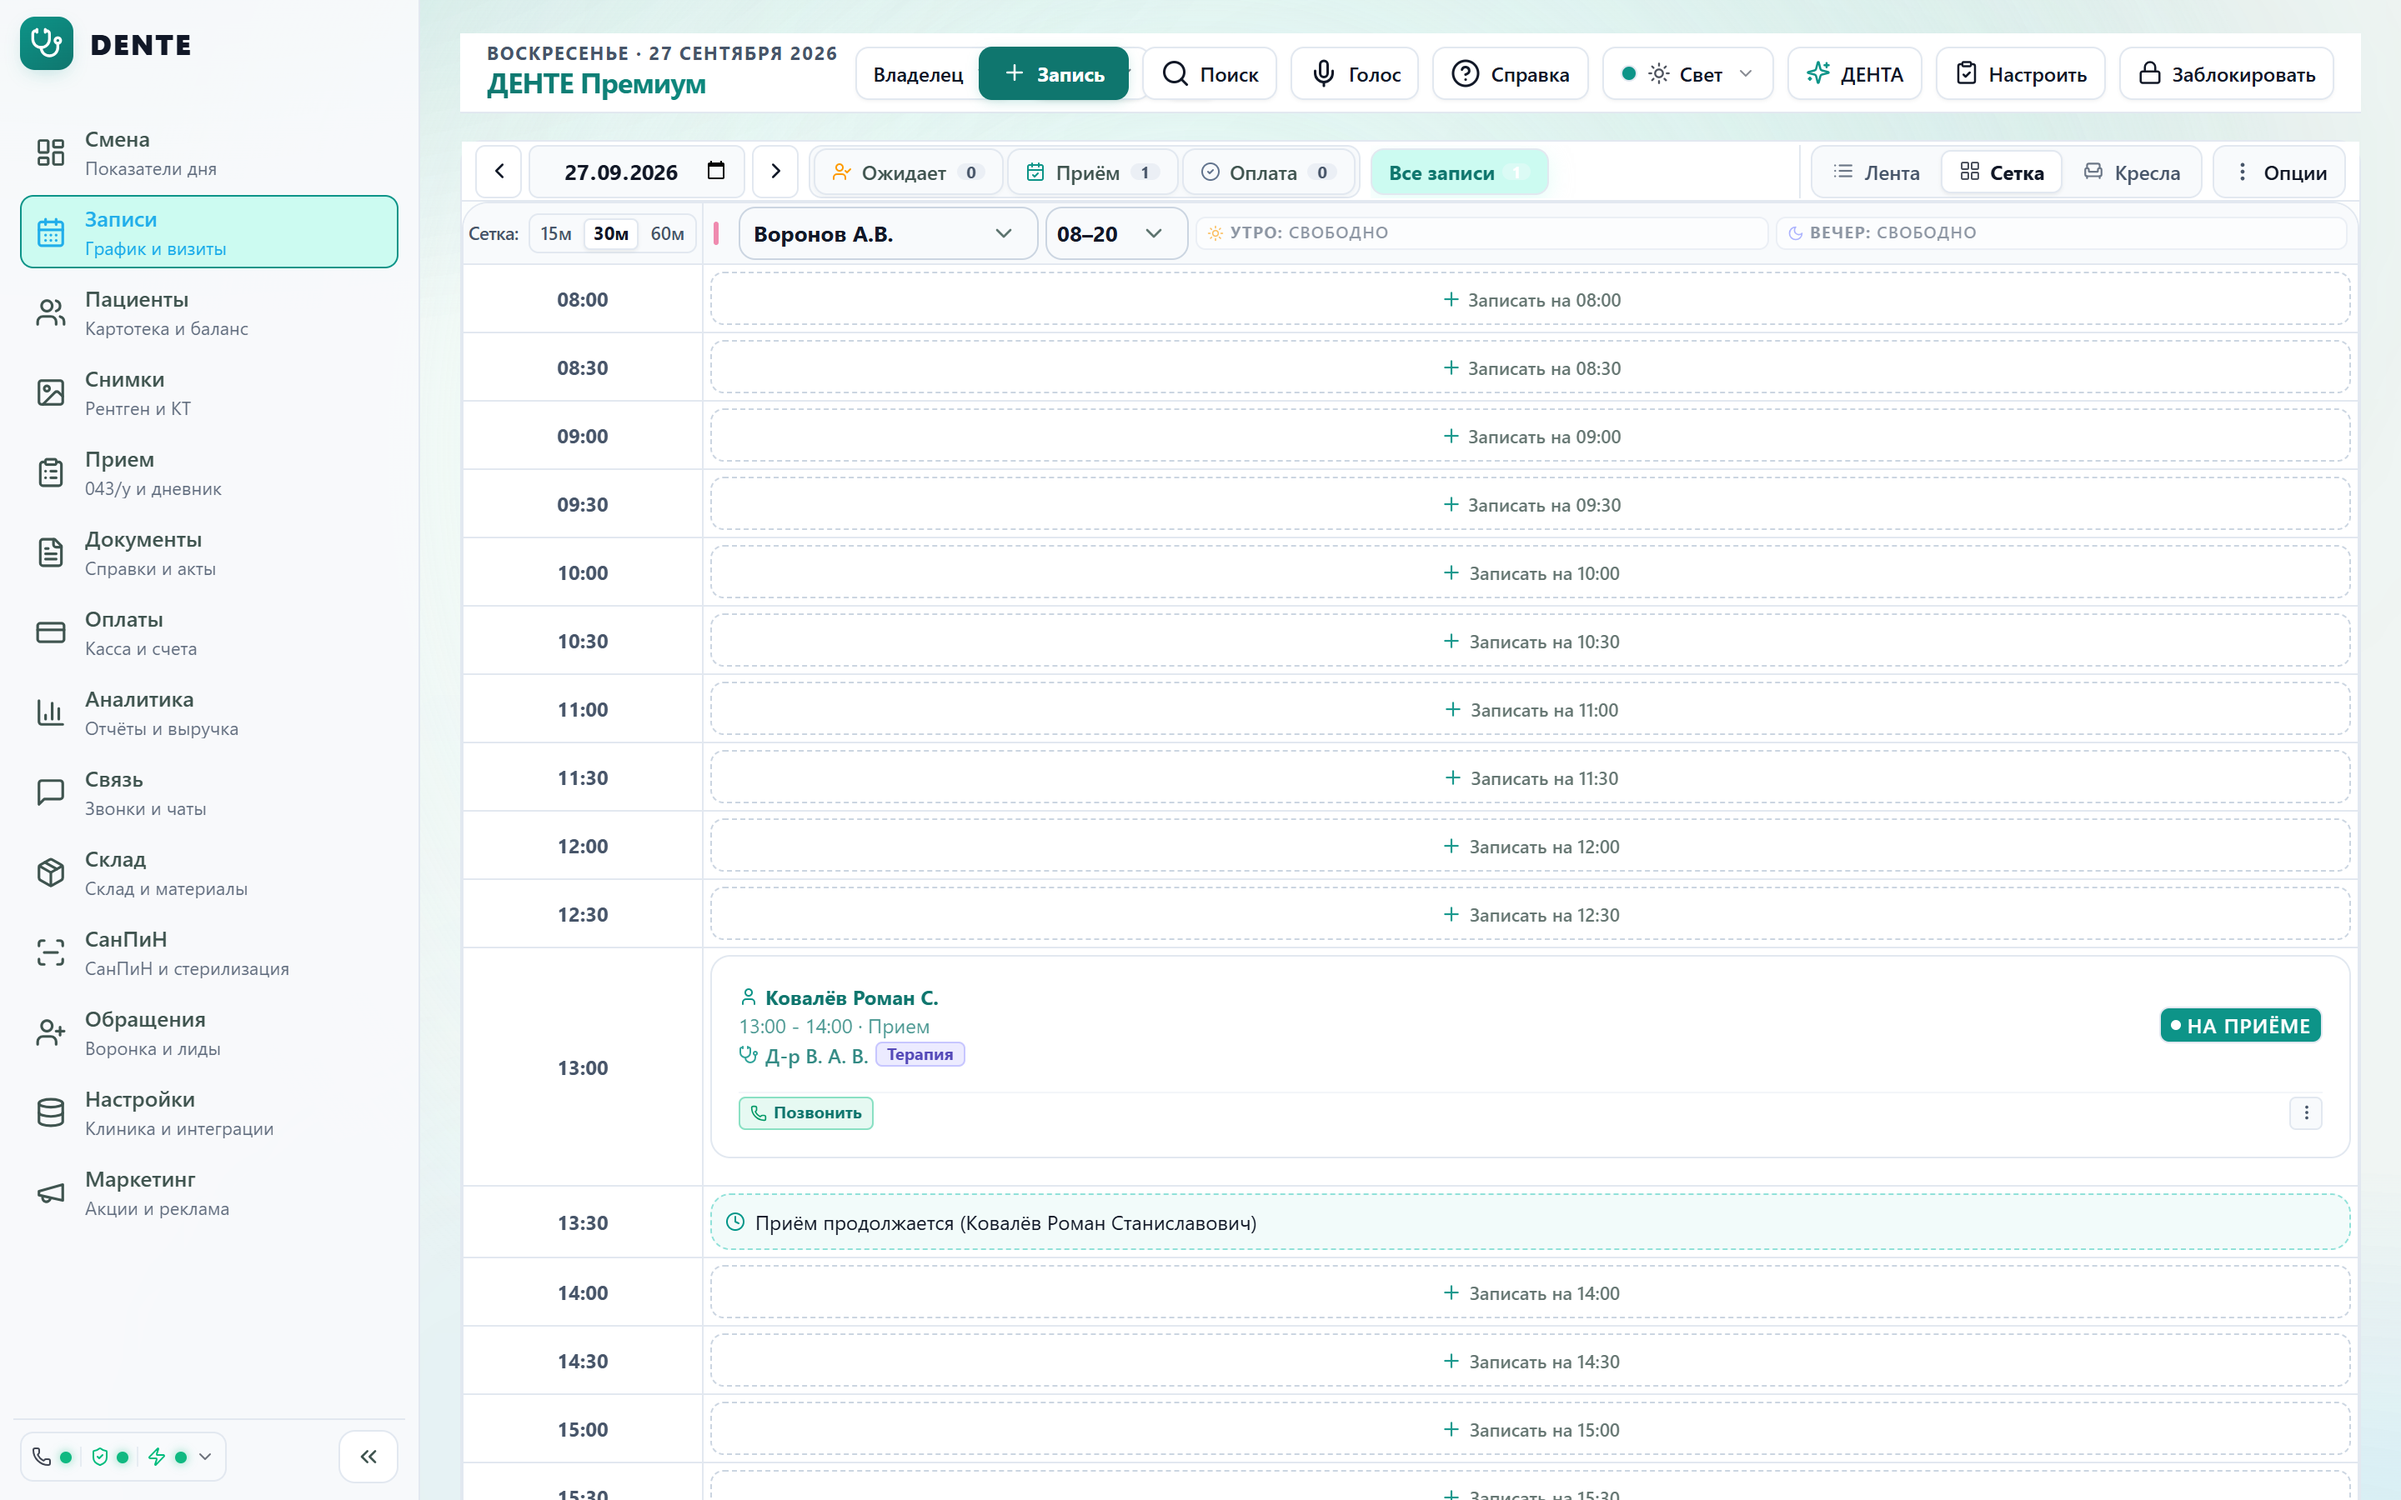
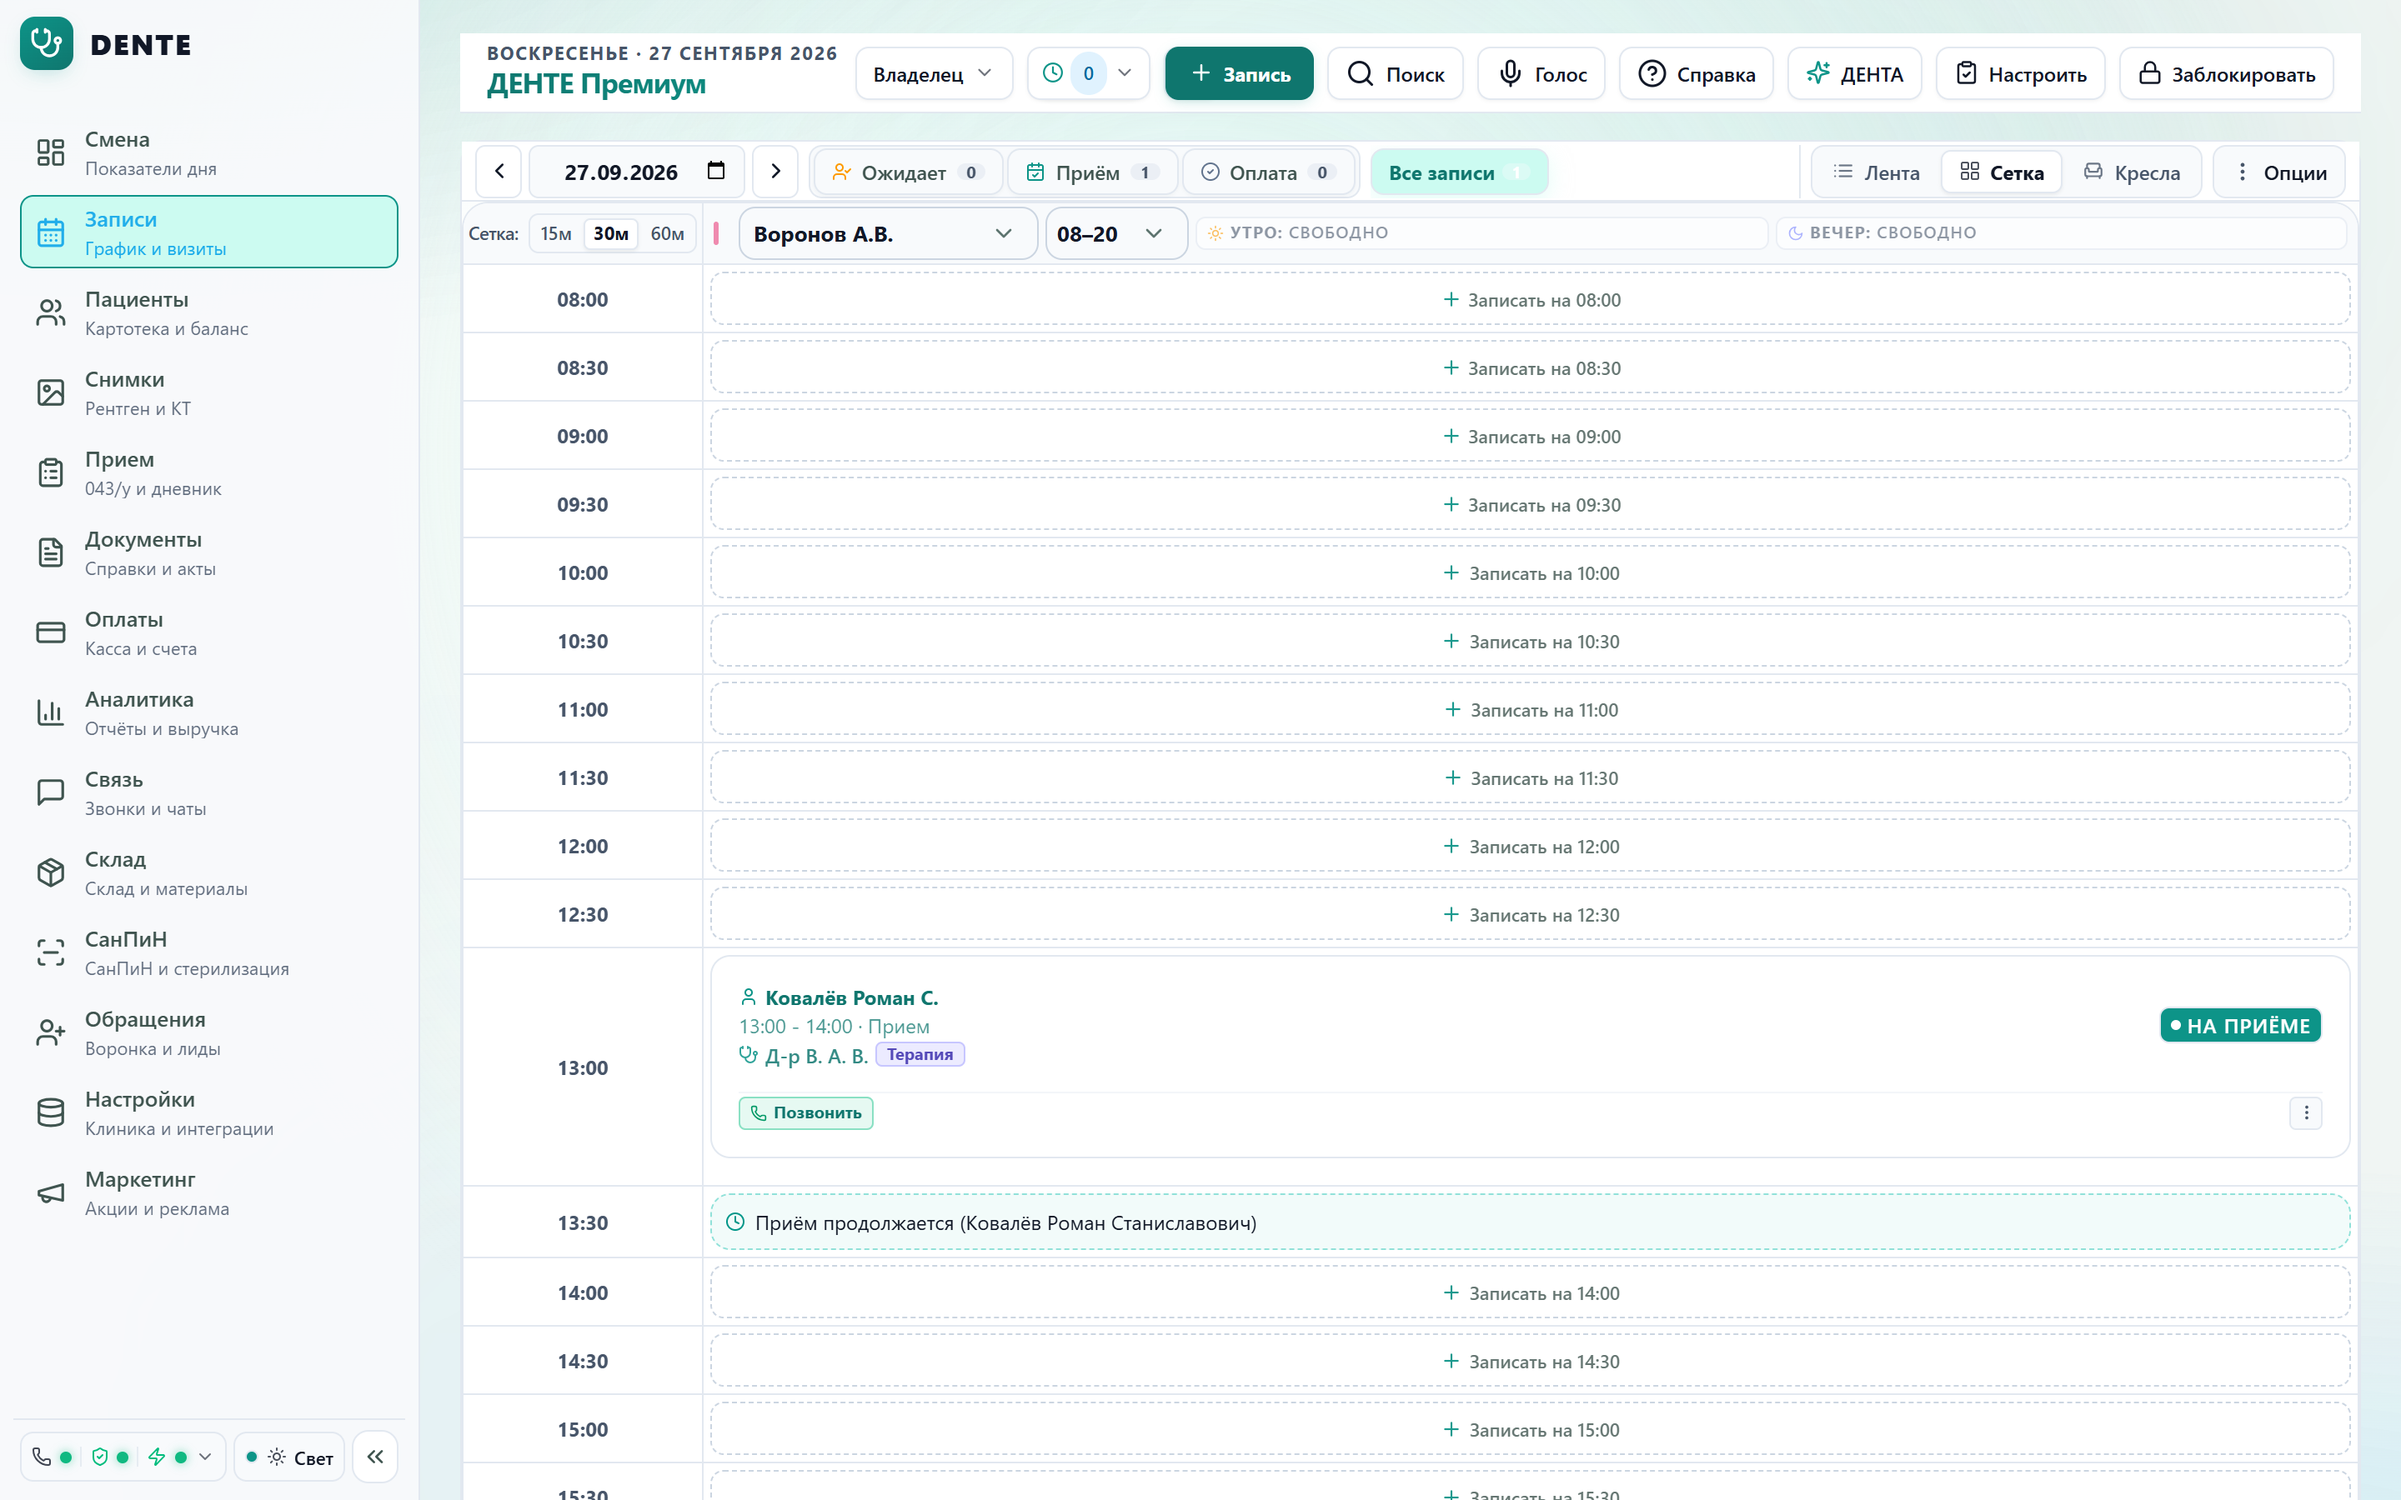
fix(ui): relocate theme access widget from topbar to sidebar footer

Changed region(s): [[0.4062, 0.0311, 0.7188, 0.0933], [0.125, 0.9644, 0.1562, 0.9956]]

diff --git a/apps/web/src/components/workspace/ThemeQuickAccessWidget.tsx b/apps/web/src/components/workspace/ThemeQuickAccessWidget.tsx
@@ -1,0 +1,245 @@
+import {
+	ChevronDown,
+	Droplets,
+	Eye,
+	Flame,
+	Flower2,
+	Laptop,
+	Moon,
+	Palette,
+	Sparkles,
+	Sun,
+	Trees,
+	Waves,
+	Zap,
+} from "lucide-react";
+import type React from "react";
+import { useEffect, useState } from "react";
+import { type ThemeMode, useThemeStore } from "../../store/themeStore";
+import { ThemeSwitcherModal } from "../theme/ThemeSwitcherModal";
+import { DENTE_THEMES, type ThemeMetadata } from "../theme/themeData";
+
+const THEME_ICONS: Record<
+	ThemeMode,
+	React.ComponentType<{ size?: number; className?: string }>
+> = {
+	light: Sun,
+	dark: Moon,
+	night: Sparkles,
+	ocean: Droplets,
+	sakura: Flower2,
+	emerald: Trees,
+	cyber_xray: Zap,
+	warm_sand: Flame,
+	calm_teal: Waves,
+	contrast: Eye,
+	auto: Laptop,
+};
+
+export interface ThemeQuickAccessWidgetProps {
+	readonly className?: string;
+	readonly collapsed?: boolean;
+	readonly variant?: "sidebar" | "topbar" | "footer";
+}
+
+/**
+ * Quiet UI / System Silence Theme Access Control (Mandates 8p, 8c, 8e, Art Director's Bible).
+ * Provides a quiet, noble control to preview and switch between all 10 clinical themes.
+ * Zero neon glow, zero carnival colors, strict adherence to System Silence.
+ * Supports desktop topbar (32px, 8px radius) and sidebar (collapsed icon or expanded bar) variants.
+ */
+export function ThemeQuickAccessWidget({
+	className = "",
+	collapsed = false,
+	variant = "sidebar",
+}: ThemeQuickAccessWidgetProps) {
+	const currentMode = useThemeStore((state) => state.themeMode);
+	const [isModalOpen, setIsModalOpen] = useState(false);
+
+	// Listen for global custom event to open theme switcher from any part of the app
+	useEffect(() => {
+		const handleOpen = () => setIsModalOpen(true);
+		window.addEventListener("dente:open-theme-switcher", handleOpen);
+		return () =>
+			window.removeEventListener("dente:open-theme-switcher", handleOpen);
+	}, []);
+
+	const currentMeta = DENTE_THEMES.find(
+		(t: ThemeMetadata) => t.id === currentMode,
+	);
+	const Icon = THEME_ICONS[currentMode] || Palette;
+	const dotColor = currentMeta?.primaryDot || "#0d9488";
+	const label = currentMeta?.name || "Тема оформления";
+
+	if (variant === "footer") {
+		return (
+			<>
+				<button
+					type="button"
+					onClick={() => setIsModalOpen(true)}
+					className={`theme-footer-control h-[30px] min-h-[30px] max-h-[30px] px-2 rounded-lg border inline-flex items-center gap-1.5 shrink-0 transition-all cursor-pointer text-[11px] font-semibold hover:border-[var(--teal,#0d9488)] ${className}`}
+					style={{
+						backgroundColor: "var(--paper-soft, rgba(0, 0, 0, 0.03))",
+						borderColor: "var(--line)",
+						color: "var(--ink)",
+					}}
+					aria-haspopup="dialog"
+					aria-expanded={isModalOpen}
+					aria-label={`Тема оформления: ${label}. Нажмите для выбора из 10 тем`}
+					title={`Тема оформления: ${label} (${currentMeta?.badge || "10 тем"}). Нажмите для смены темы`}
+					data-testid="sidebar-footer-theme-switcher-btn"
+				>
+					<span
+						className="w-2 h-2 rounded-full shrink-0 border"
+						style={{
+							backgroundColor: dotColor,
+							borderColor: "var(--line)",
+						}}
+						aria-hidden="true"
+					/>
+					<Icon size={12} className="shrink-0 opacity-75" aria-hidden="true" />
+					{!collapsed && (
+						<span className="truncate max-w-[65px] text-[11px] font-medium leading-none">
+							{currentMeta?.shortLabel || label}
+						</span>
+					)}
+				</button>
+
+				<ThemeSwitcherModal
+					isOpen={isModalOpen}
+					onClose={() => setIsModalOpen(false)}
+				/>
+			</>
+		);
+	}
+
+	if (variant === "topbar") {
+		return (
+			<>
+				<button
+					type="button"
+					onClick={() => setIsModalOpen(true)}
+					className={`theme-topbar-control h-8 min-h-[32px] max-h-8 px-2.5 rounded-lg border inline-flex items-center gap-1.5 shrink-0 transition-all cursor-pointer text-xs font-semibold hover:border-[var(--line-strong)] ${className}`}
+					style={{
+						backgroundColor: "var(--paper)",
+						borderColor: "var(--line)",
+						color: "var(--ink)",
+					}}
+					aria-haspopup="dialog"
+					aria-expanded={isModalOpen}
+					aria-label={`Тема оформления: ${label}. Нажмите для выбора из 10 тем`}
+					title={`Тема оформления: ${label} (${currentMeta?.badge || "10 тем"}). Нажмите для смены темы`}
+					data-testid="topbar-theme-switcher-btn"
+				>
+					<span
+						className="w-2.5 h-2.5 rounded-full shrink-0 border"
+						style={{
+							backgroundColor: dotColor,
+							borderColor: "var(--line)",
+						}}
+						aria-hidden="true"
+					/>
+					<Icon size={14} className="shrink-0 opacity-75" aria-hidden="true" />
+					<span className="truncate text-[12px] font-semibold">
+						{currentMeta?.shortLabel || label}
+					</span>
+					<ChevronDown
+						size={12}
+						className="opacity-50 shrink-0 ml-0.5"
+						aria-hidden="true"
+					/>
+				</button>
+
+				<ThemeSwitcherModal
+					isOpen={isModalOpen}
+					onClose={() => setIsModalOpen(false)}
+				/>
+			</>
+		);
+	}
+
+	if (collapsed) {
+		return (
+			<>
+				<button
+					type="button"
+					onClick={() => setIsModalOpen(true)}
+					className={`quick-theme-trigger-collapsed w-9 h-9 rounded-lg border flex items-center justify-center transition-colors cursor-pointer relative group ${className}`}
+					style={{
+						backgroundColor: "var(--paper-soft)",
+						borderColor: "var(--line)",
+						color: "var(--ink-2)",
+					}}
+					aria-haspopup="dialog"
+					aria-expanded={isModalOpen}
+					aria-label={`Тема: ${label}. Нажмите для выбора из 10 тем`}
+					title={`Тема: ${label}. Нажмите для выбора из 10 тем`}
+					data-testid="sidebar-theme-switcher-btn"
+				>
+					<Icon size={16} className="opacity-80 group-hover:opacity-100" aria-hidden="true" />
+					{/* Micro status dot */}
+					<span
+						className="absolute bottom-1 right-1 w-2 h-2 rounded-full border"
+						style={{
+							backgroundColor: dotColor,
+							borderColor: "var(--line)",
+						}}
+						aria-hidden="true"
+					/>
+				</button>
+
+				<ThemeSwitcherModal
+					isOpen={isModalOpen}
+					onClose={() => setIsModalOpen(false)}
+				/>
+			</>
+		);
+	}
+
+	return (
+		<>
+			<button
+				type="button"
+				onClick={() => setIsModalOpen(true)}
+				className={`w-full flex items-center justify-between gap-2 px-2.5 py-1.5 rounded-lg border text-xs font-medium transition-all cursor-pointer min-h-[32px] hover:border-[var(--line-strong)] ${className}`}
+				style={{
+					backgroundColor: "var(--paper-soft)",
+					borderColor: "var(--line)",
+					color: "var(--ink)",
+				}}
+				aria-haspopup="dialog"
+				aria-expanded={isModalOpen}
+				aria-label={`Тема оформления: ${label}. Открыть выбор из 10 тем`}
+				title={`Тема: ${label} (${currentMeta?.badge || "10 специализированных палитр"}). Нажмите для смены`}
+				data-testid="sidebar-theme-switcher-btn"
+			>
+				<div className="flex items-center gap-2 min-w-0">
+					{/* Noble, quiet color dot without neon glow */}
+					<span
+						className="w-2.5 h-2.5 rounded-full shrink-0 border"
+						style={{
+							backgroundColor: dotColor,
+							borderColor: "var(--line)",
+						}}
+						aria-hidden="true"
+					/>
+					<Icon size={14} className="shrink-0 opacity-70" aria-hidden="true" />
+					<span className="truncate text-[12px] font-semibold">
+						{currentMeta?.shortLabel || label}
+					</span>
+				</div>
+
+				<ChevronDown
+					size={12}
+					className="opacity-50 shrink-0 ml-1"
+					aria-hidden="true"
+				/>
+			</button>
+
+			<ThemeSwitcherModal
+				isOpen={isModalOpen}
+				onClose={() => setIsModalOpen(false)}
+			/>
+		</>
+	);
+}

diff --git a/apps/web/src/styles/modules/sidebar.css b/apps/web/src/styles/modules/sidebar.css
@@ -143,14 +143,14 @@ html.dark .sidebar .nav-item.active,
 	opacity: 1 !important;
 }
 
-/* 5. Sidebar Footer with Clinic Control Pill */
+/* 5. Sidebar Footer with Clinic Control Pill & Theme Switcher */
 .sidebar-footer {
 	margin-top: auto !important;
 	flex-shrink: 0 !important;
 	display: flex !important;
 	align-items: center !important;
 	justify-content: space-between !important;
-	gap: 6px !important;
+	gap: 4px !important;
 	padding: 8px 4px 6px !important;
 	border-top: 1px solid var(--line) !important;
 	max-width: 100% !important;
@@ -161,9 +161,8 @@ html.dark .sidebar .nav-item.active,
 	position: relative !important;
 	display: flex !important;
 	align-items: center !important;
-	flex: 1 1 auto !important;
+	flex: 0 0 auto !important;
 	min-width: 0 !important;
-	max-width: calc(100% - 34px) !important;
 }
 
 .sidebar-footer .dnt-clinic-control-pill {
@@ -198,6 +197,43 @@ html.dark .sidebar .nav-item.active,
 [data-theme="dark"] .sidebar-footer .dnt-clinic-control-pill:hover,
 [data-theme="night"] .sidebar-footer .dnt-clinic-control-pill:hover,
 [data-theme="ocean"] .sidebar-footer .dnt-clinic-control-pill:hover {
+	background: var(--teal-soft, rgba(45, 212, 191, 0.15)) !important;
+	border-color: var(--teal, #2dd4bf) !important;
+}
+
+/* Theme quick access button in sidebar footer */
+.sidebar-footer .theme-footer-control {
+	display: inline-flex !important;
+	align-items: center !important;
+	gap: 5px !important;
+	height: 30px !important;
+	min-height: 30px !important;
+	max-height: 30px !important;
+	padding: 0 6px !important;
+	border-radius: 8px !important;
+	border: 1px solid var(--line) !important;
+	background: var(--paper-soft, rgba(0, 0, 0, 0.03)) !important;
+	color: var(--ink) !important;
+	cursor: pointer !important;
+	transition: background 0.15s ease, border-color 0.15s ease !important;
+	flex: 0 0 auto !important;
+}
+
+.sidebar-footer .theme-footer-control:hover {
+	background: var(--teal-surface, rgba(13, 148, 136, 0.08)) !important;
+	border-color: var(--teal, #0d9488) !important;
+}
+
+[data-theme="dark"] .sidebar-footer .theme-footer-control,
+[data-theme="night"] .sidebar-footer .theme-footer-control,
+[data-theme="ocean"] .sidebar-footer .theme-footer-control {
+	background: rgba(255, 255, 255, 0.05) !important;
+	border-color: var(--line) !important;
+}
+
+[data-theme="dark"] .sidebar-footer .theme-footer-control:hover,
+[data-theme="night"] .sidebar-footer .theme-footer-control:hover,
+[data-theme="ocean"] .sidebar-footer .theme-footer-control:hover {
 	background: var(--teal-soft, rgba(45, 212, 191, 0.15)) !important;
 	border-color: var(--teal, #2dd4bf) !important;
 }

diff --git a/apps/web/src/workspaceShell.tsx b/apps/web/src/workspaceShell.tsx
@@ -479,6 +479,7 @@ export function WorkspaceSidebar({
 			) : null}
 			<div className="sidebar-footer max-w-full shrink-0 mt-auto pb-2 flex items-center justify-between">
 				<ClinicControlPill onLockSession={onLockSession} />
+				<ThemeQuickAccessWidget variant="footer" collapsed={collapsed} />
 				<button
 					className="icon-button sidebar-collapse-button"
 					type="button"
@@ -918,9 +919,6 @@ export function WorkspaceTopbar({
           раскладку, которой не существует.
         */}
 				<WorkspaceActionsMount />
-
-				{/* Быстрый доступ к темам оформления в десктопном топбаре (32px, 8px радиус) */}
-				<ThemeQuickAccessWidget variant="topbar" />
 
 				{/*
           КОПИЛОТ / КЛИНИЧЕСКИЙ ИИ-АССИСТЕНТ — крупная кнопка в шапке в 1 клик.
